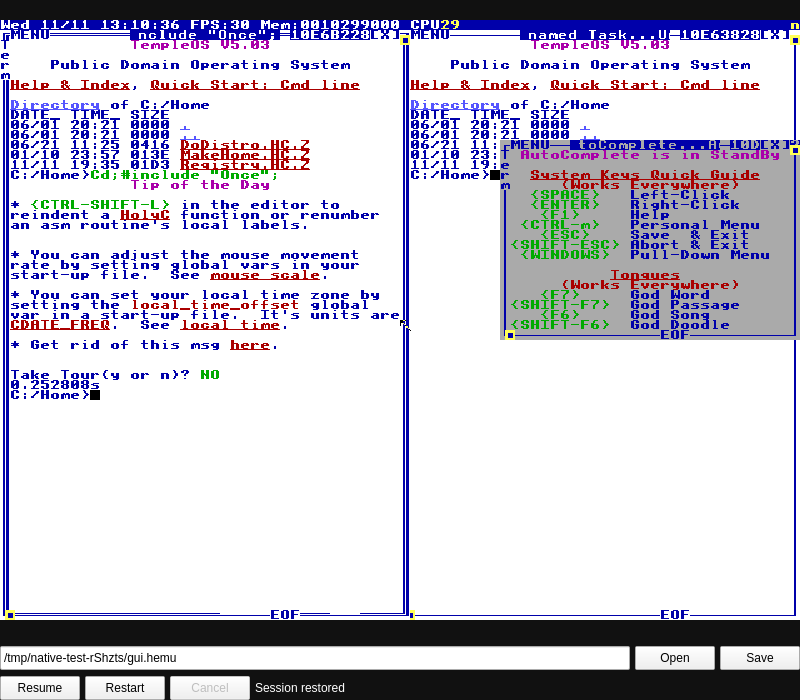
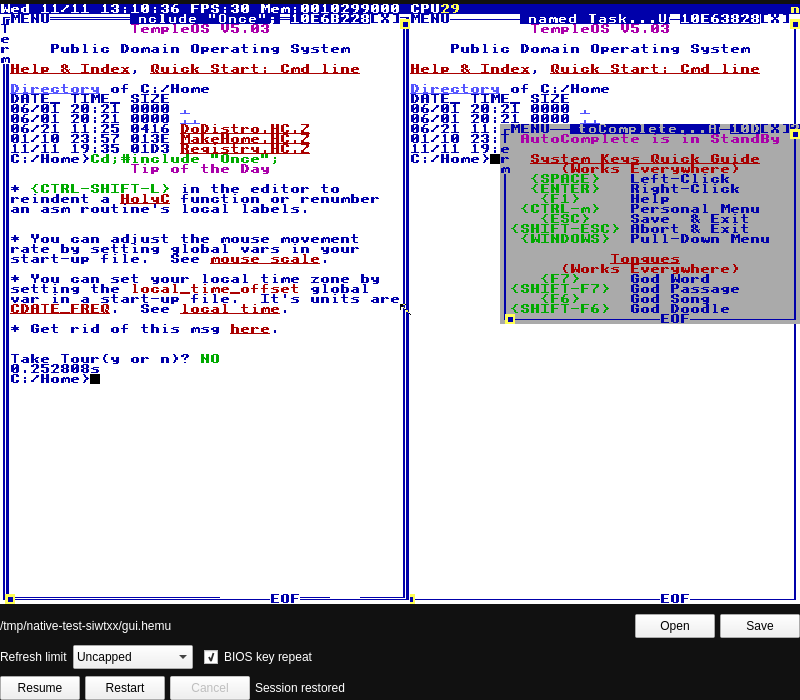
Control native refresh rate and BIOS key repeat

Changed region(s): [[0.0, 0.0, 1.0, 0.57], [0.0, 0.84, 1.0, 0.96]]

diff --git a/engine/native/Runtime.js b/engine/native/Runtime.js
@@ -70,17 +70,28 @@ export async function Open(path) {
     //A restored session retains its documented patch policy. Never fetch or modify guest code here.
     DocClipCheck(gx,meta.guestPatches);
     fault=CpuFaultText(inst.exports);
-    let paused=meta.paused||!!fault;
+    let paused=meta.paused||!!fault,rate=meta.rate,actualRate=meta.actualRate,repeat=meta.repeat;
     machine={
-      status:()=>({paused,fault,fps,frameSerial,capture:!paused&&!fault&&capture,tone:paused||fault?0:tone,cores:1,memoryBytes:inst.exports.memory.buffer.byteLength}),
+      status:()=>({paused,fault,fps,frameSerial,rate,actualRate,repeat,capture:!paused&&!fault&&capture,tone:paused||fault?0:tone,cores:1,memoryBytes:inst.exports.memory.buffer.byteLength}),
       frame:()=>NativeFrame(frame,palette),
       tick(delta){if(paused||fault)return;ns=delta;pointer.beforeFrame();inst.exports.__main();gx.tick();fault=CpuFaultText(inst.exports);if(fault){paused=true;keys.Release();}},
       pause(value){if(!value&&fault)throw Error(fault);paused=value;if(paused){input.reset();keys.Release();pointer.accept({b:0,reset:true});}},
       key(id,down){if(paused||fault)return;if(down)input.down(id,id);else input.up(id);},
       mouse:p=>{if(!paused&&!fault)pointer.accept(p);},
       release(){input.reset();keys.Release();pointer.accept({b:0,reset:true});},
+      settings(options){
+        if(fault)throw Error(fault);
+        if(!options||![0,30,60,120].includes(options.rate)||typeof options.repeat!=="boolean")
+          throw Error("Select a rate of 0, 30, 60 or 120 and a boolean BIOS-repeat setting");
+        if(!inst.exports.KbdRptSet||!inst.exports.WinRateSet)
+          throw Error("This saved engine does not support these settings");
+        rate=options.rate;repeat=options.repeat;
+        inst.exports.KbdRptSet(BigInt(repeat));
+        const ok=!!inst.exports.WinRateSet(BigInt(rate));actualRate=ok?rate:null;
+        return ok;
+      },
       async save(path){
-        const launch=gx.snapshot(),current={...meta,paused,heapPtr:host.state.heapPtr,sp:Number(inst.exports.__sp.value),keyboard:keys.Save(),pointer:pointer.save(),launch};
+        const launch=gx.snapshot(),current={...meta,paused,rate,actualRate,repeat,heapPtr:host.state.heapPtr,sp:Number(inst.exports.__sp.value),keyboard:keys.Save(),pointer:pointer.save(),launch};
         await Write(path,{meta:current,wasm:saved.wasm,memory:inst.exports.memory,disk});
       },
       exec:src=>gx.exec({src,target:"adam"}),job:id=>gx.status(id)
@@ -99,3 +110,7 @@ export function Release(){Require().release();}
 export async function Save(path){await Require().save(path);return Status();}
 export function Exec(src){return Require().exec(src);}
 export function Job(id){return Require().job(id);}
+export function Settings(options){
+  const ok=Require().settings(options);
+  return {...Status(),ok,msg:ok?"":"This guest has an unknown display timing layout; its rate was not changed."};
+}

diff --git a/engine/native/Main.qml b/engine/native/Main.qml
@@ -4,7 +4,7 @@ import QtQuick.Layouts
 import HemuNative
 ApplicationWindow {
   visible: true
-  width: 800; height: 700; minimumWidth: 640; minimumHeight: 570
+  width: 800; height: 700; minimumWidth: 640; minimumHeight: 610
   title: qsTr("TempleOS — HEMU")
   color: "#111111"
   id: window
@@ -57,6 +57,22 @@ ApplicationWindow {
       Label { Layout.fillWidth: true; text: backend.path||qsTr("Open a complete .hemu session"); textFormat: Text.PlainText; elide: Text.ElideMiddle; color: "white" }
       Button { objectName: "openFile"; text: qsTr("Open"); enabled: !backend.busy; onClicked: backend.choose(false) }
       Button { objectName: "saveFile"; text: qsTr("Save"); enabled: backend.ready&&!backend.busy; onClicked: backend.choose(true) }
+    }
+    RowLayout {
+      Label { text: qsTr("Refresh limit"); color: "white" }
+      ComboBox {
+        objectName: "rate"; model: [qsTr("Uncapped"),"30","60","120"]
+        currentIndex: [0,30,60,120].indexOf(backend.rate)
+        enabled: backend.ready&&!backend.busy&&!backend.faulted
+        onActivated: backend.settings([0,30,60,120][currentIndex],backend.repeat)
+      }
+      CheckBox {
+        objectName: "repeat"; text: qsTr("BIOS key repeat"); checked: backend.repeat
+        palette.windowText: "white"
+        enabled: backend.ready&&!backend.busy&&!backend.faulted
+        onToggled: backend.settings(backend.rate,checked)
+      }
+      Label { visible: backend.ready&&!backend.rateKnown; text: qsTr("Guest rate unavailable"); color: "white"; Layout.fillWidth: true }
     }
     RowLayout {
       Button { text: backend.paused?qsTr("Resume"):qsTr("Pause"); enabled: backend.ready&&!backend.busy&&!backend.faulted; onClicked: {backend.pause();screen.forceActiveFocus()} }

diff --git a/engine/native/App.hpp b/engine/native/App.hpp
@@ -117,6 +117,16 @@ public slots:
     if(!machine)return;
     try{if(!paused&&!fatalMessage.isEmpty())throw std::runtime_error(fatalMessage.toStdString());machine->Call("Pause",{paused});Present();clock.restart();Wake();}catch(const std::exception &error){Failed(error);}
   }
+  void Settings(QJsonObject options) {
+    emit busyChanged(true);
+    try {
+      if(!machine)throw std::runtime_error("No complete machine is loaded");
+      if(!fatalMessage.isEmpty())throw std::runtime_error(fatalMessage.toStdString());
+      const auto result=machine->Call("Settings",{options}).toObject();Present();
+      if(!result["ok"].toBool())throw std::runtime_error(result["msg"].toString().toStdString());
+    }catch(const std::exception &error){Failed(error);}
+    emit busyChanged(false);
+  }
   void Key(int key,bool down){if(machine)try{machine->Call("Key",{key,down});}catch(const std::exception &error){Failed(error);}}
   void Mouse(QJsonObject point){if(machine)try{machine->Call("Mouse",{point});}catch(const std::exception &error){Failed(error);}}
   void Release(){if(machine)try{machine->Call("Release");}catch(const std::exception &error){Failed(error);}}
@@ -145,6 +155,9 @@ class Backend:public QObject {
   Q_PROPERTY(bool faulted READ faulted NOTIFY changed)
   Q_PROPERTY(bool captured READ captured NOTIFY changed)
   Q_PROPERTY(bool captureWanted READ captureWanted NOTIFY changed)
+  Q_PROPERTY(int rate READ rate NOTIFY changed)
+  Q_PROPERTY(bool rateKnown READ rateKnown NOTIFY changed)
+  Q_PROPERTY(bool repeat READ repeat NOTIFY changed)
   QThread thread;std::atomic<bool> cancelFlag{false};FrameMailbox mailbox;Engine *engine=nullptr;
   QImage value;QString message,filename;bool working=false,stopped=true,loaded=false;
   QJsonObject state;PointerCapture pointerLock;Files files;QPointer<QQuickWindow> window;int buttons=0,wheel=0;Tone tone;std::unique_ptr<QAudioSink> audio;
@@ -166,6 +179,7 @@ public:
     connect(&pointerLock,&PointerCapture::error,this,[this](QString error){message=error;emit changed();});
     engine->moveToThread(&thread);connect(&thread,&QThread::finished,engine,&QObject::deleteLater);
     connect(this,&Backend::openRequested,engine,&Engine::Open);connect(this,&Backend::saveRequested,engine,&Engine::Save);
+    connect(this,&Backend::settingsRequested,engine,&Engine::Settings);
     connect(this,&Backend::pauseRequested,engine,&Engine::Pause);connect(this,&Backend::keyRequested,engine,&Engine::Key);
     connect(this,&Backend::mouseRequested,engine,&Engine::Mouse);connect(this,&Backend::releaseRequested,engine,&Engine::Release);
     connect(engine,&Engine::progress,this,[this](QString mode,qulonglong bytes){message=mode=="read"?tr("Loading session: %1 MiB").arg(bytes/(1024*1024)):tr("Saving session: %1 MiB").arg(bytes/(1024*1024));emit changed();});
@@ -187,6 +201,7 @@ public:
   ~Backend(){pointerLock.Release();tone.Set(0);if(audio)audio->stop();cancelFlag.store(true);thread.quit();thread.wait();}
   QImage image()const{return value;}QString status()const{return message;}bool busy()const{return working||files.Pending();}
   bool paused()const{return stopped;}bool ready()const{return loaded;}QString path()const{return filename;}bool faulted()const{return !state["fault"].toString().isEmpty();}
+  int rate()const{return state["rate"].toInt();}bool rateKnown()const{return !state["actualRate"].isNull()&&!state["actualRate"].isUndefined();}bool repeat()const{return state["repeat"].toBool();}
   bool captured()const{return pointerLock.Active();}bool captureWanted()const{return state["capture"].toBool();}
   void Attach(QQuickWindow *next){if(window)window->removeEventFilter(this);pointerLock.Release();window=next;if(window)window->installEventFilter(this);}
   Q_INVOKABLE void open(const QString &path){if(busy()||path.isEmpty())return;release();cancelFlag.store(false);working=true;tone.Set(0);message=tr("Loading session…");emit changed();emit openRequested(path);}
@@ -194,6 +209,10 @@ public:
   Q_INVOKABLE void choose(bool save){if(busy()||(save&&!loaded))return;release();message=save?tr("Choose where to save the session"):tr("Choose a complete .hemu session");files.Choose(save,filename);}
   Q_INVOKABLE void cancel(){if(files.Pending())files.Cancel();else if(working)cancelFlag.store(true);}
   Q_INVOKABLE void pause(){if(!busy()&&loaded){release();tone.Set(0);emit pauseRequested(!stopped);}}
+  Q_INVOKABLE void settings(int rate,bool repeat){
+    if(busy()||!loaded||faulted())return;
+    release();working=true;emit changed();emit settingsRequested({{"rate",rate},{"repeat",repeat}});
+  }
   Q_INVOKABLE void release(){pointerLock.Release();buttons=0;emit releaseRequested();}
   Q_INVOKABLE void capture(){if(!busy()&&!stopped&&captureWanted())pointerLock.Start(window);}
   Q_INVOKABLE void mouse(double x,double y,int value,int rotation=0){
@@ -218,5 +237,5 @@ public:
   }
 signals:
   void imageChanged();void changed();void openRequested(QString);void saveRequested(QString);void pauseRequested(bool);
-  void keyRequested(int,bool);void mouseRequested(QJsonObject);void releaseRequested();void fileChosen(QString path,bool save);
+  void settingsRequested(QJsonObject);void keyRequested(int,bool);void mouseRequested(QJsonObject);void releaseRequested();void fileChosen(QString path,bool save);
 };

diff --git a/tools/native/tests/native.cpp b/tools/native/tests/native.cpp
@@ -67,6 +67,44 @@ private slots:
     for(int i=0;i<2000;i++){disk.Call("Tick",{16000000});if(disk.Call("Job",{read}).toObject()["state"].toString()=="done"){done=true;break;}}
     QVERIFY(done);
   }
+  void settings() {
+    std::atomic<bool> cancel{false};Machine machine(&cancel);const auto imported=machine.Call("Open",{input}).toObject();
+    machine.Call("Pause",{true});
+    const auto initial=machine.Call("Status").toObject();
+    QCOMPARE(initial["rate"],imported["rate"]);QCOMPARE(initial["repeat"],imported["repeat"]);
+    QVERIFY_THROWS_EXCEPTION(std::runtime_error,machine.Call("Settings",{QJsonObject{{"rate",59},{"repeat",true}}}));
+    QVERIFY_THROWS_EXCEPTION(std::runtime_error,machine.Call("Settings",{QJsonObject{{"rate",60},{"repeat",1}}}));
+    QCOMPARE(machine.Call("Status").toObject(),initial);
+    auto settle=[&](const QString &source) {
+      const auto id=machine.Call("Exec",{source});
+      for(int i=0;i<1000;i++) {
+        machine.Call("Tick",{16000000});const auto job=machine.Call("Job",{id}).toObject();
+        if(job["state"].toString()=="done")return true;
+        if(job["state"].toString()=="failed"){qWarning()<<job;return false;}
+      }
+      return false;
+    };
+    const QStringList periods={"3F91111111111111","3F81111111111111","3F50624DD2F1A9FC","3FA1156F8C384072"};int index=0;
+    for(int rate:{60,120,0,30}) {
+      machine.Call("Pause",{true});const auto still=pixels(machine.Image());
+      const auto state=machine.Call("Settings",{QJsonObject{{"rate",rate},{"repeat",false}}}).toObject();
+      QVERIFY(state["ok"].toBool());QCOMPARE(state["rate"].toInt(),rate);QCOMPARE(state["actualRate"].toInt(),rate);QVERIFY(!state["repeat"].toBool());
+      QCOMPARE(pixels(machine.Image()),still);machine.Call("Pause",{false});
+      QVERIFY(settle(QString("Bool native_rate_found=FALSE;I64 native_i;for(native_i=0;native_i<4096;native_i++)if(*((&WinMgrSleep)(U8*)+native_i)(U64*)==0x%1)native_rate_found=TRUE;if(!native_rate_found)throw('Rate');").arg(periods[index++])));
+    }
+    for(bool repeat:{false,true}) {
+      machine.Call("Settings",{QJsonObject{{"rate",30},{"repeat",repeat}}});
+      QVERIFY(settle("I64 native_key_start=kbd.cnt;"));machine.Call("Key",{0x1E,true});
+      for(int i=0;i<80;i++)machine.Call("Tick",{16000000});
+      QVERIFY(settle(repeat?"if(kbd.cnt-native_key_start<20)throw('Repeat');":"if(kbd.cnt-native_key_start!=1)throw('Repeat');"));
+      machine.Call("Release");for(int i=0;i<10;i++)machine.Call("Tick",{16000000});
+    }
+    machine.Call("Settings",{QJsonObject{{"rate",120},{"repeat",true}}});machine.Call("Pause",{true});
+    const auto before=pixels(machine.Image());QTemporaryDir dir;QVERIFY(dir.isValid());const auto saved=dir.filePath("settings.hemu");
+    machine.Call("Save",{saved});Machine restored(&cancel);const auto state=restored.Call("Open",{saved}).toObject();
+    QCOMPARE(state["rate"].toInt(),120);QCOMPARE(state["actualRate"].toInt(),120);QVERIFY(state["repeat"].toBool());QVERIFY(state["paused"].toBool());
+    QCOMPARE(pixels(restored.Image()),before);
+  }
   void timerLifecycle() {
     std::atomic<bool> cancel{false};FrameMailbox mailbox;Engine engine(&cancel,&mailbox);
     auto *timer=engine.findChild<QTimer *>();QVERIFY(timer);QVERIFY(!timer->isActive());
@@ -159,6 +197,10 @@ private slots:
     const bool oldPause=backend.paused();backend.pause();QTRY_VERIFY_WITH_TIMEOUT(backend.paused()!=oldPause,3000);
     if(!backend.paused()){backend.pause();QTRY_VERIFY_WITH_TIMEOUT(backend.paused(),3000);}
     const auto paused=pixels(backend.image());QTest::qWait(50);QCOMPARE(pixels(backend.image()),paused);
+    auto *rate=window->findChild<QQuickItem *>("rate"),*repeat=window->findChild<QQuickItem *>("repeat");QVERIFY(rate);QVERIFY(repeat);
+    rate->setProperty("currentIndex",0);QVERIFY(QMetaObject::invokeMethod(rate,"activated",Q_ARG(int,0)));QVERIFY(backend.busy());QTRY_VERIFY(!backend.busy());QCOMPARE(backend.rate(),0);QVERIFY(backend.rateKnown());
+    const auto wasRepeat=backend.repeat();QTest::mouseClick(window,Qt::LeftButton,Qt::NoModifier,repeat->mapToScene(QPointF(repeat->width()/2,repeat->height()/2)).toPoint());
+    QTRY_VERIFY(!backend.busy());QCOMPARE(backend.repeat(),!wasRepeat);QCOMPARE(pixels(backend.image()),paused);
     QTemporaryDir dir;QVERIFY(dir.isValid());QFile bad(dir.filePath("bad.hemu"));QVERIFY(bad.open(QIODevice::WriteOnly));bad.write("invalid");bad.close();
     backend.open(bad.fileName());QTRY_VERIFY_WITH_TIMEOUT(!backend.busy(),30000);QVERIFY(backend.ready());QVERIFY(backend.paused());
     QCOMPARE(pixels(backend.image()),paused);QCOMPARE(backend.path(),input);

diff --git a/engine/native/README.md b/engine/native/README.md
@@ -43,6 +43,13 @@ lack sufficient CPU and disk state and are refused. This host resumes captured
 TempleOS; it does not implement a cold BIOS/DVD boot.
 
 The window accepts a session path, Open, Save, Pause/Resume, Restart and Cancel.
+Refresh limit offers Uncapped, 30, 60 and 120 through the same guest WinRateSet
+implementation as the browser. BIOS key repeat uses the emulated keyboard's
+guest-programmed typematic delay/rate; Qt autorepeat is not injected. Imported
+settings are displayed without changing the saved machine, and subsequent saves
+preserve explicit choices. An unknown guest timing layout reports failure instead
+of claiming the requested limit was applied. Changing these settings is serialized
+on the machine thread and releases held input.
 Click the screen to route keys to TempleOS. Moving focus away releases held
 keys. The [Qt Wayland input source](https://codebrowser.dev/qt6/qtbase/src/plugins/platforms/wayland/qwaylandinputdevice.cpp.html#1342)
 provides the eight-key XKB offset used here. Linux evdev/XKB scan codes preserve left/right modifiers and keypad
